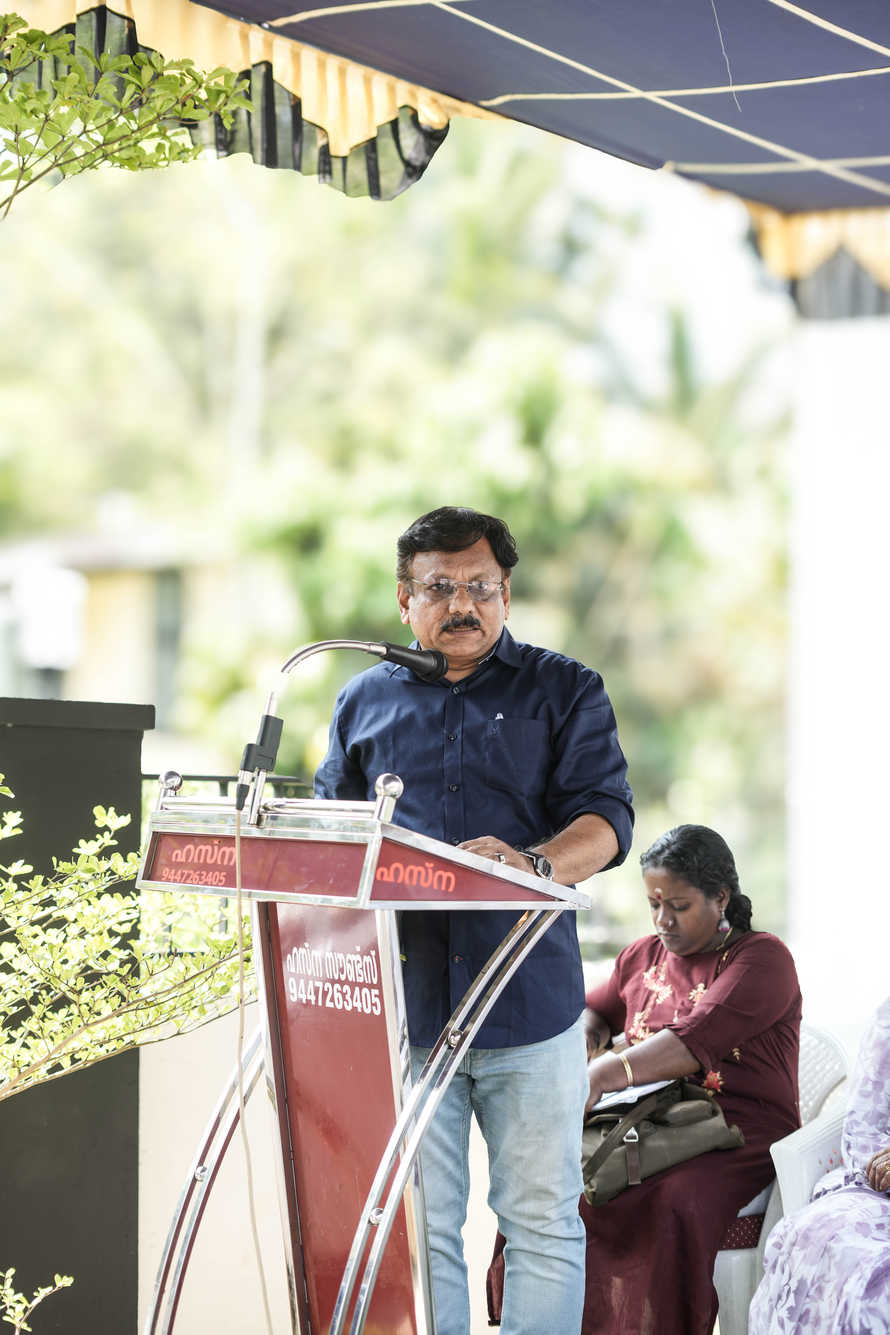
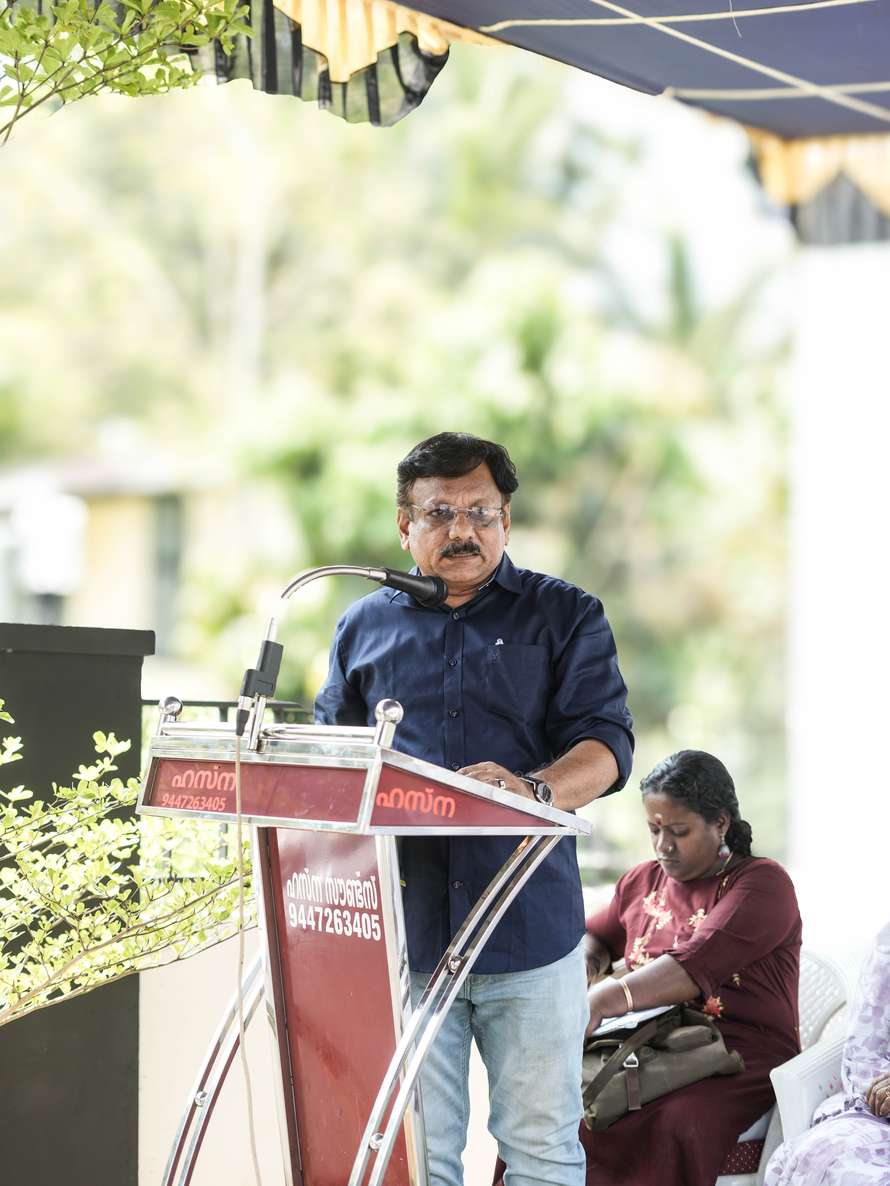
image size changed from about and edited contact form

diff --git a/contact.html b/contact.html
@@ -119,7 +119,6 @@
               <div class="col-md-1"></div>
               <div class="col-md-5">
                 <h3 class="mb-5">Connect Us</h3>
-                <p class="mb-5"><img src="images/img_4.jpg" alt="" class="img-fluid"></p>
                 <p>At AJ Suites Wayanad, we are always ready to assist you with your stay. Whether you have inquiries about our rooms, amenities, or booking details, our team is here to help. Feel free to reach out to us for personalized assistance, special requests, or travel recommendations. Your comfort is our priority, and we strive to provide a seamless and memorable experience. Get in touch with us today!"</p>
               </div>
         </div>

diff --git a/about.html b/about.html
@@ -81,7 +81,7 @@
         <div class="row align-items-center">
           <div class="col-md-4">
             <div class="heading-wrap  element-animate">
-              <h4 class="sub-heading">Stay with our luxury rooms</h4>
+              <h4 class="sub-heading">Experience a Luxurious Stay</h4>
               <h2 class="heading">Our Story</h2>
               <p class="">Welcome to AJ Suits Wayanad, a leading hotel apartment designed to offer the perfect blend of luxury, comfort, and convenience. Nestled in the heart of Wayanad, we provide a home-like experience with world-class amenities, ensuring a relaxing and memorable stay.
 
